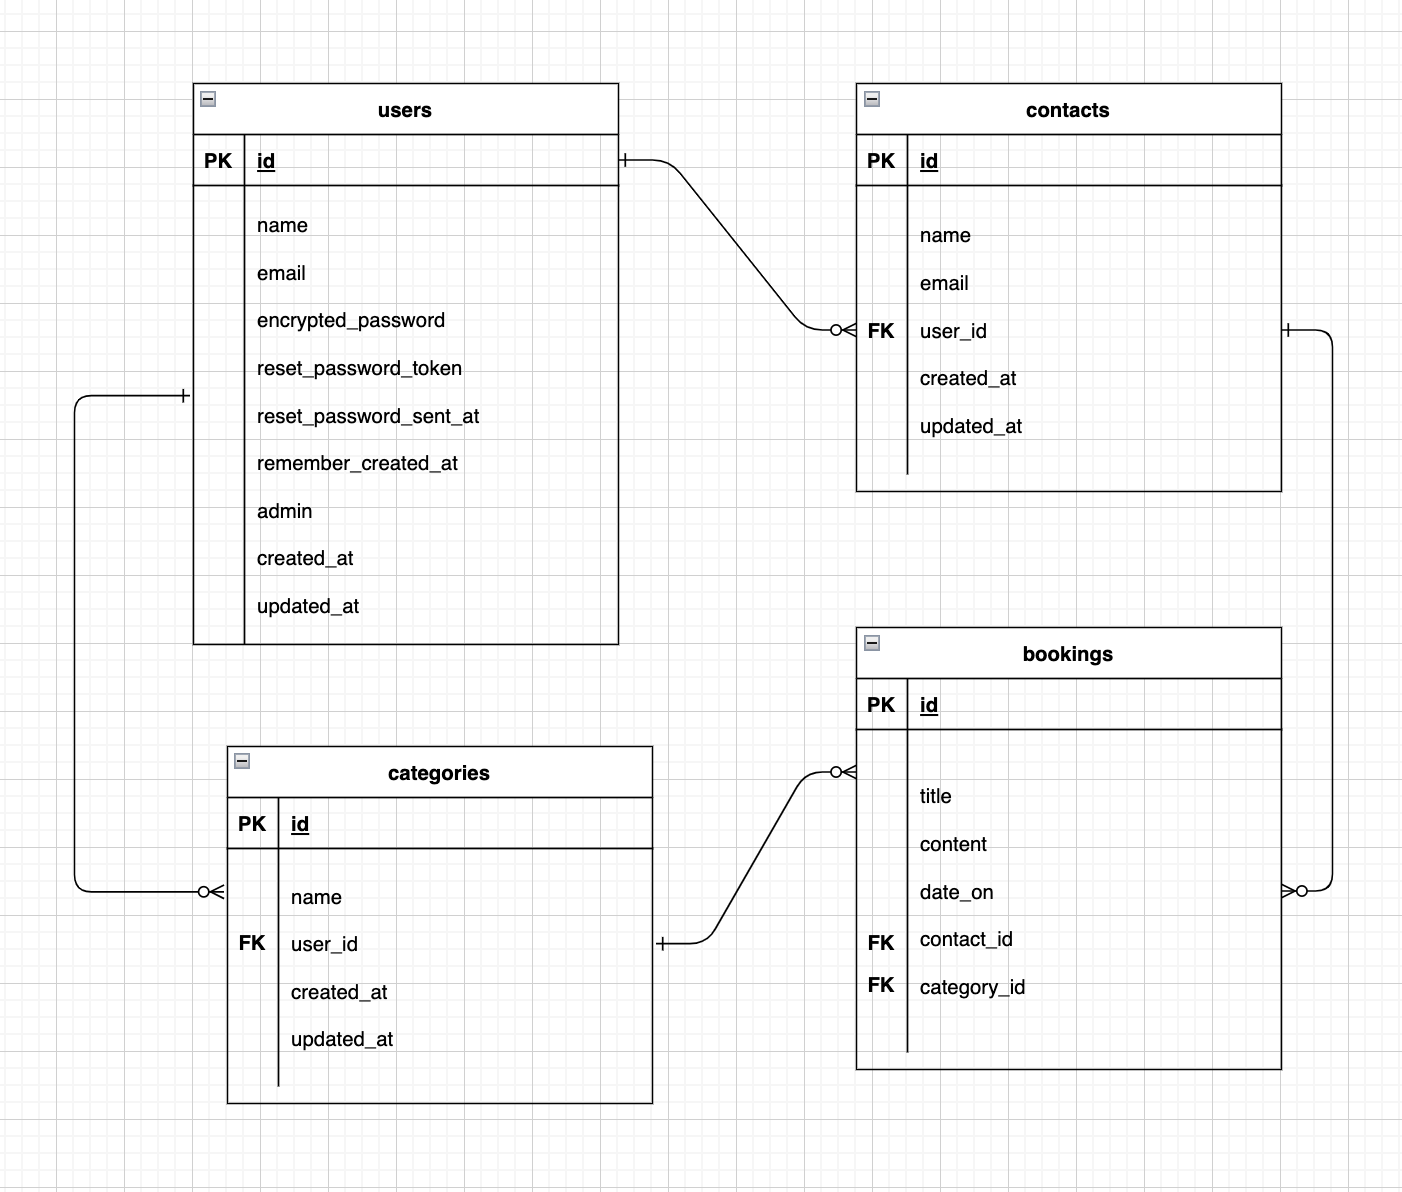
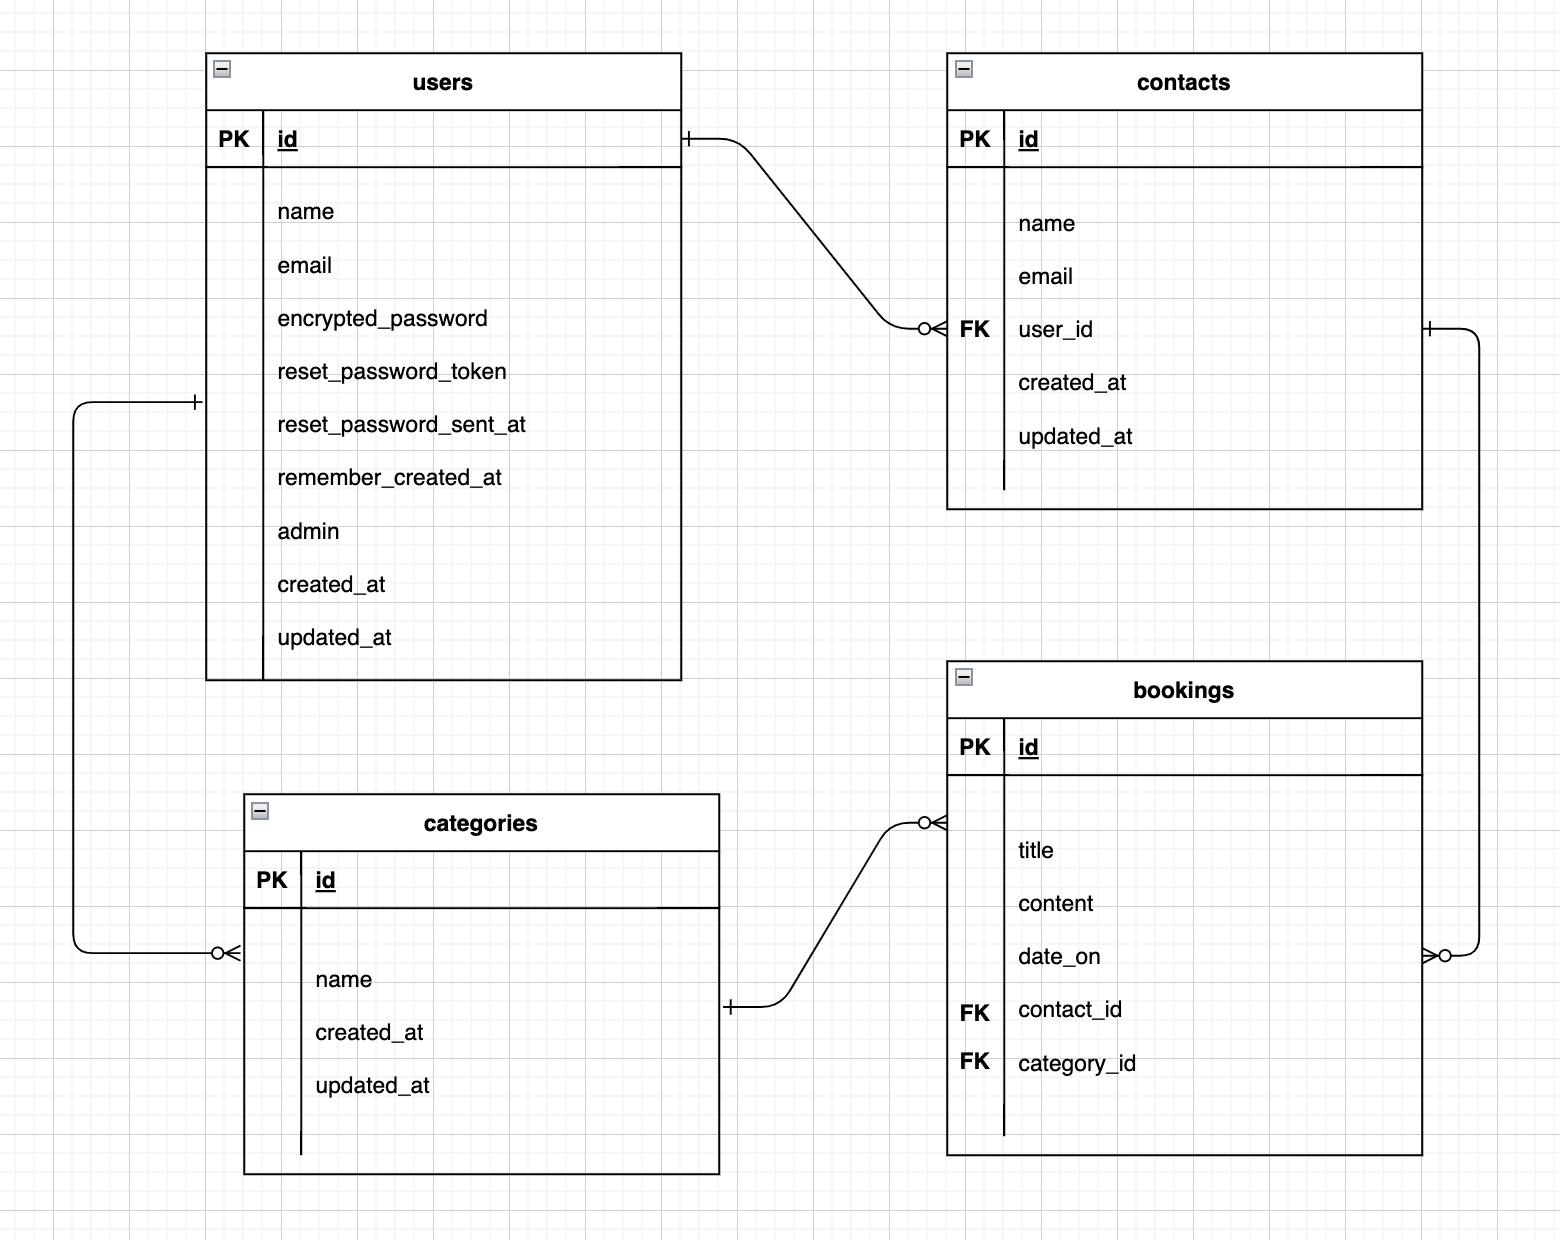
enabled to create new contact

diff --git a/db/schema.rb b/db/schema.rb
@@ -31,8 +31,6 @@ ActiveRecord::Schema.define(version: 2023_08_06_033207) do
     t.string "name"
     t.datetime "created_at", precision: 6, null: false
     t.datetime "updated_at", precision: 6, null: false
-    t.bigint "user_id", null: false
-    t.index ["user_id"], name: "index_categories_on_user_id"
   end
 
   create_table "contacts", force: :cascade do |t|
@@ -70,6 +68,5 @@ ActiveRecord::Schema.define(version: 2023_08_06_033207) do
 
   add_foreign_key "bookings", "categories"
   add_foreign_key "bookings", "contacts"
-  add_foreign_key "categories", "users"
   add_foreign_key "contacts", "users"
 end

diff --git a/app/controllers/contacts_controller.rb b/app/controllers/contacts_controller.rb
@@ -13,7 +13,7 @@ before_action :set_q, only: [:index, :search]
   end
 
   def create
-    @contact= current_user.contacts.buil(contact_params)
+    @contact= current_user.contacts.build(contact_params)
 		if params[:back]
       render :new
 	  else
@@ -59,6 +59,8 @@ before_action :set_q, only: [:index, :search]
 
   def search
     @results = @q.result
+
+    render :index
   end
 
   private
@@ -68,7 +70,7 @@ before_action :set_q, only: [:index, :search]
   end
 
   def contact_params
-    params.require(:contact).permit(:name, :category)
+    params.require(:contact).permit(:name, :email)
   end
 
 end

diff --git a/app/models/user.rb b/app/models/user.rb
@@ -4,5 +4,4 @@ class User < ApplicationRecord
   devise :database_authenticatable, :registerable,
          :recoverable, :rememberable, :validatable, :confirmable
   has_many :contacts
-  has_many :categories
 end

diff --git a/app/models/category.rb b/app/models/category.rb
@@ -1,4 +1,3 @@
 class Category < ApplicationRecord
   has_many :bookings
-  belongs_to :user 
 end
